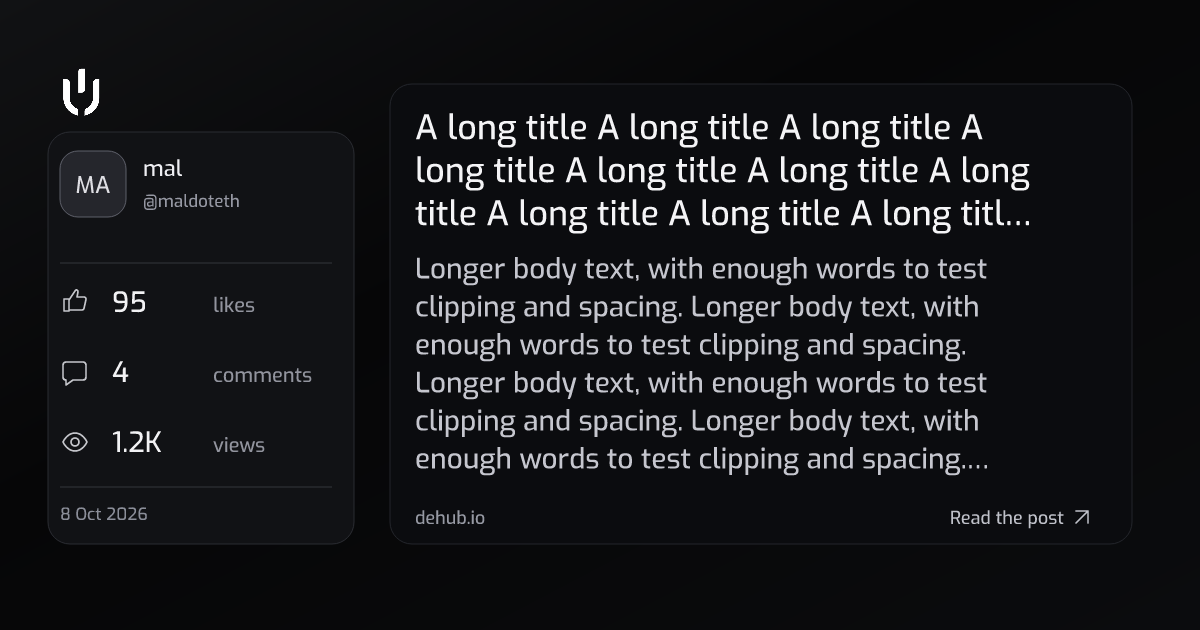
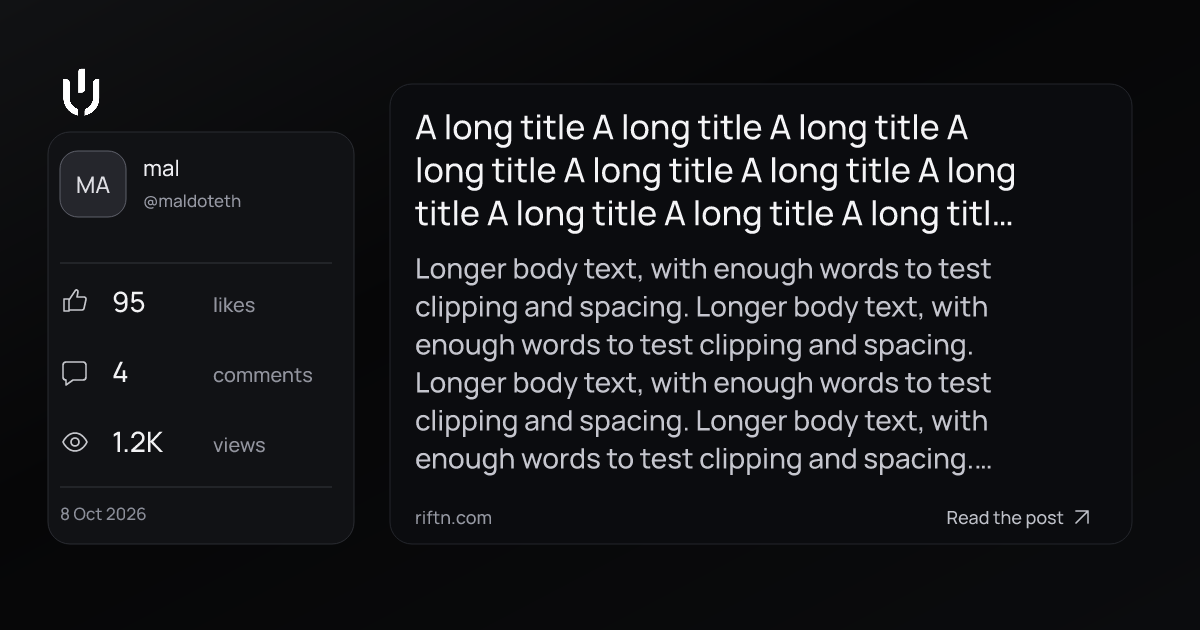
Share cards say riftn.com and show Turkish and other accented letters

diff --git a/server/post-share-card.js b/server/post-share-card.js
@@ -1,4 +1,4 @@
-export const POST_CARD_VERSION = 'v5';
+export const POST_CARD_VERSION = 'v6';
 export const POST_CARD_TTL = 300;
 const ORIGIN = 'https://riftn.com';
 const CDN = 'https://dehubcdn.ams3.cdn.digitaloceanspaces.com';
@@ -265,9 +265,9 @@ function renderMediaPanel(data, media) {
     <rect x="390" y="${caption.length ? 324 : 414}" width="742" height="${caption.length ? 220 : 130}" fill="url(#foot)" clip-path="url(#panel)"/>
     <rect x="390" y="84" width="742" height="460" rx="22" fill="none" stroke="#22242a"/>
     ${play}
-    <g font-family="Exo" font-weight="500">
+    <g font-family="Manrope" font-weight="500">
       ${textLines(caption, 415, captionY, 28, 36, '#f4f4f6')}
-      <text x="415" y="524" font-size="18" fill="#c5c6ce">dehub.io</text>
+      <text x="415" y="524" font-size="18" fill="#c5c6ce">riftn.com</text>
       <text x="1064" y="524" text-anchor="end" font-size="18" fill="#f1f1f4">${data.media.video ? 'Watch on Riftn' : 'View the post'}</text>
       <path d="M1076 523l12-12m-12 0h12v12" fill="none" stroke="#f1f1f4" stroke-width="1.5" stroke-linecap="round" stroke-linejoin="round"/>
     </g>
@@ -312,27 +312,27 @@ export function renderPostCardSvg(data, { logo, avatar = '', badges = [], media 
   <path d="M60 263H332M60 487H332" fill="none" stroke="#33353b"/>
   <image x="43" y="59" width="77" height="66" xlink:href="${logo}"/>
   <rect x="60" y="151" width="66" height="66" rx="18" fill="#25262c" stroke="#5d5f69"/>
-  ${avatar ? `<image x="60" y="151" width="66" height="66" preserveAspectRatio="xMidYMid slice" clip-path="url(#face)" xlink:href="${avatar}"/>` : `<text x="93" y="193" text-anchor="middle" fill="#dedee3" font-family="Exo" font-size="23">${escape(initials)}</text>`}
-  <g font-family="Exo" font-weight="500">
+  ${avatar ? `<image x="60" y="151" width="66" height="66" preserveAspectRatio="xMidYMid slice" clip-path="url(#face)" xlink:href="${avatar}"/>` : `<text x="93" y="193" text-anchor="middle" fill="#dedee3" font-family="Manrope" font-size="23">${escape(initials)}</text>`}
+  <g font-family="Manrope" font-weight="500">
     ${identity.svg}
     <text x="143" y="${identity.handleY}" font-size="17" fill="#9698a3">${escape(wrapPostText(data.handle ? `@${data.handle}` : '', 17, 184, 1)[0] || '')}</text>
     ${stats}
     <text x="60" y="520" font-size="17" fill="#8b8e99">${escape(dateText)}</text>
   </g>
-  ${showMedia ? renderMediaPanel(data, media) : `<g font-family="Exo" font-weight="500">
+  ${showMedia ? renderMediaPanel(data, media) : `<g font-family="Manrope" font-weight="500">
     <g clip-path="url(#copy)">
       ${textLines(title.lines, 415, title.y, title.size, title.step, '#f4f4f6')}
       ${textLines(body.lines, 415, body.y, body.size, body.step, '#c5c6ce')}
       ${renderPoll(poll)}
     </g>
-    <text x="415" y="524" font-size="18" fill="#9699a3">dehub.io</text>
+    <text x="415" y="524" font-size="18" fill="#9699a3">riftn.com</text>
     <text x="1064" y="524" text-anchor="end" font-size="18" fill="#bfc1c9">Read the post</text>
     <path d="M1076 523l12-12m-12 0h12v12" fill="none" stroke="#bfc1c9" stroke-width="1.5" stroke-linecap="round" stroke-linejoin="round"/>
   </g>`}
   </svg>`;
 }
 
-export const PROFILE_CARD_VERSION = 'v1';
+export const PROFILE_CARD_VERSION = 'v2';
 const PROFILE_HANDLE = /^[A-Za-z0-9_][A-Za-z0-9_.-]{0,63}$/;
 
 export function profileShareImageUrl(handle) {
@@ -391,12 +391,12 @@ export function renderProfileCardSvg(data, { logo, avatar = '', chrome = '' }) {
   <rect x="68" y="84" width="1064" height="460" rx="22" fill="#0b0c0f" stroke="#22242a"/>
   <image x="43" y="59" width="77" height="66" xlink:href="${logo}"/>
   <rect x="110" y="190" width="220" height="220" rx="56" fill="#25262c" stroke="#5d5f69"/>
-  ${avatar ? `<image x="110" y="190" width="220" height="220" preserveAspectRatio="xMidYMid slice" clip-path="url(#face)" xlink:href="${avatar}"/>` : `<text x="220" y="325" text-anchor="middle" fill="#dedee3" font-family="Exo" font-size="76">${escape(initials)}</text>`}
-  <g font-family="Exo" font-weight="500">
+  ${avatar ? `<image x="110" y="190" width="220" height="220" preserveAspectRatio="xMidYMid slice" clip-path="url(#face)" xlink:href="${avatar}"/>` : `<text x="220" y="325" text-anchor="middle" fill="#dedee3" font-family="Manrope" font-size="76">${escape(initials)}</text>`}
+  <g font-family="Manrope" font-weight="500">
     ${textLines(name, 380, nameY, 56, 66, '#f4f4f6')}
     <text x="380" y="${handleY}" font-size="28" fill="#9698a3">${escape(wrapPostText(`@${data.handle}`, 28, 640, 1)[0])}</text>
     ${facts ? `<text x="380" y="${handleY + 62}" font-size="26" fill="#d9dae0">${escape(facts)}</text>` : ''}
-    <text x="110" y="508" font-size="18" fill="#9699a3">dehub.io</text>
+    <text x="110" y="508" font-size="18" fill="#9699a3">riftn.com</text>
     <text x="1064" y="508" text-anchor="end" font-size="18" fill="#bfc1c9">Follow on Riftn</text>
     <path d="M1076 507l12-12m-12 0h12v12" fill="none" stroke="#bfc1c9" stroke-width="1.5" stroke-linecap="round" stroke-linejoin="round"/>
   </g>

diff --git a/src/test/structured-data.test.ts b/src/test/structured-data.test.ts
@@ -276,7 +276,7 @@ describe('entity pages', () => {
     const { res, body } = await crawl('/app/post/6127/duets');
     expect(res.status).toBe(200);
     expect(meta(body, 'og:title')).toBe('Duets of Dance by @mal | Riftn');
-    expect(meta(body, 'og:image')).toBe('https://riftn.com/_og/post/v5/6127.png');
+    expect(meta(body, 'og:image')).toBe('https://riftn.com/_og/post/v6/6127.png');
     expect(body).toContain('<link rel="canonical" href="https://riftn.com/app/post/6127/duets">');
     expect(types(body)).toContain('CollectionPage');
   });
@@ -286,7 +286,7 @@ describe('entity pages', () => {
     const { res, body } = await crawl('/app/post/6127/reactions');
     expect(res.status).toBe(200);
     expect(meta(body, 'og:title')).toBe('Reactions to Dance by @mal | Riftn');
-    expect(meta(body, 'og:image')).toBe('https://riftn.com/_og/post/v5/6127.png');
+    expect(meta(body, 'og:image')).toBe('https://riftn.com/_og/post/v6/6127.png');
     expect(body).toContain('<link rel="canonical" href="https://riftn.com/app/post/6127/reactions">');
     expect(types(body)).toContain('CollectionPage');
   });
@@ -461,8 +461,8 @@ describe('proxied pages', () => {
     const record = { tokenId: 6127, mintername: 'jesse', description: 'Clip night', postType: 'video', videoUrl: 'videos/6127.mp4', thumbnail_url: 'images/6127.jpg' };
     network({ [FN]: html(page), 'https://api.dehub.io/api/nft_info/6127': json({ result: record }) });
     let { body } = await crawl('/app/post/6127');
-    expect(meta(body, 'og:image')).toBe('https://riftn.com/_og/post/v5/6127.png');
-    expect(meta(body, 'twitter:image')).toBe('https://riftn.com/_og/post/v5/6127.png');
+    expect(meta(body, 'og:image')).toBe('https://riftn.com/_og/post/v6/6127.png');
+    expect(meta(body, 'twitter:image')).toBe('https://riftn.com/_og/post/v6/6127.png');
     expect(meta(body, 'twitter:card')).toBe('summary_large_image');
     expect(meta(body, 'og:image:width')).toBe('1200');
     expect(meta(body, 'og:image:height')).toBe('630');

diff --git a/src/pages/app/StatsPage.tsx b/src/pages/app/StatsPage.tsx
@@ -858,14 +858,14 @@ export default function StatsPage() {
     <div className="min-h-screen">
       <SEOHead
         title={_copy("copy.1340eb7a333e", { defaultValue: "Live Site Stats: Riftn Visitors and Members in Real Time" })}
-        description={_copy("copy.e1110847f32e", { defaultValue: "Live numbers for dehub.io: visitors measured at Cloudflare's edge, Riftn's own member counts, and what the platform earns and spends — revenue, costs and where the original token tax went, with every on-chain line linked to its transaction." })}
+        description={_copy("copy.e1110847f32e", { defaultValue: "Live numbers for riftn.com: visitors measured at Cloudflare's edge, Riftn's own member counts, and what the platform earns and spends — revenue, costs and where the original token tax went, with every on-chain line linked to its transaction." })}
         url="https://riftn.com/stats"
         image="https://riftn.com/og/stats.jpg"
         jsonLd={{
           '@context': 'https://schema.org',
           '@type': 'Dataset',
           name: 'Riftn live site statistics',
-          description: _copy("copy.67ae514e929e", { defaultValue: "Edge-measured visitor statistics for dehub.io alongside the platform’s own community figures — members, active users, signups and growth — published live." }),
+          description: _copy("copy.67ae514e929e", { defaultValue: "Edge-measured visitor statistics for riftn.com alongside the platform’s own community figures — members, active users, signups and growth — published live." }),
           url: 'https://riftn.com/stats',
           creator: { '@type': 'Organization', name: 'Riftn' },
           isAccessibleForFree: true,

diff --git a/server/stage-share-card.js b/server/stage-share-card.js
@@ -10,7 +10,7 @@
 import { buildStageCover, stageCoverTitleScale } from '../src/lib/stage-cover.ts';
 import { wrapPostText } from './post-share-card.js';
 
-export const STAGE_CARD_VERSION = 'v2';
+export const STAGE_CARD_VERSION = 'v3';
 const ORIGIN = 'https://riftn.com';
 
 export function stageShareImageUrl(id) {
@@ -120,6 +120,6 @@ export function renderStageCardSvg(stage, images = {}) {
   ${kv ? `<text x="${n(left)}" y="${kvY}" font-family="Consolas" font-size="${kvSize}" fill="#fff" fill-opacity=".6">${escape(wrapPostText(kv, kvSize, 56 * U, 1)[0] || '')}</text>` : ''}
 
   <rect x="${n(left)}" y="${n(H - 4.2 * U - 3.1 * U)}" width="${n(18.4 * U)}" height="${n(3.1 * U)}" rx="${n(0.5 * U)}" fill="#000" fill-opacity=".35" stroke="#fff" stroke-opacity=".3" stroke-width="1.5"/>
-  <text x="${n(left + 1.4 * U)}" y="${n(H - 4.2 * U - 1.05 * U)}" font-family="Consolas" font-size="${n(1.5 * U)}" fill="#fff" fill-opacity=".85">// dehub.io/stages</text>
+  <text x="${n(left + 1.4 * U)}" y="${n(H - 4.2 * U - 1.05 * U)}" font-family="Consolas" font-size="${n(1.5 * U)}" fill="#fff" fill-opacity=".85">// riftn.com/stages</text>
 </svg>`;
 }

diff --git a/src/components/app/profile/UsernameReserve.tsx b/src/components/app/profile/UsernameReserve.tsx
@@ -133,7 +133,7 @@ export function UsernameReserve({ username, onTaken, preview }: Props) {
       ) : null}
 
       <p className="mb-6 max-w-[340px] text-sm leading-relaxed text-zinc-400 [text-wrap:balance]">
-        {state === 'avail' && t('profile.reserve.availableBody', { defaultValue: 'dehub.io/{{name}} is free right now. Reserve it and we hold it for one minute while you sign up.', name })}
+        {state === 'avail' && t('profile.reserve.availableBody', { defaultValue: 'riftn.com/{{name}} is free right now. Reserve it and we hold it for one minute while you sign up.', name })}
         {state === 'held' && t('profile.reserve.heldBody', { defaultValue: 'Nobody else can take @{{name}} until the timer runs out. Finish sign up to keep it.', name })}
         {state === 'ended' && t('profile.reserve.endedBody', { defaultValue: 'Your minute ran out, so @{{name}} is open to everyone again. It is still free.', name })}
         {state === 'busy' && t('profile.reserve.busyBody', { defaultValue: 'Someone is signing up as @{{name}} right now. If they do not finish, it frees up when the timer ends.', name })}

diff --git a/server/post-share-image.js b/server/post-share-image.js
@@ -14,7 +14,7 @@ const bytesToUri = (bytes, type) => {
 };
 
 async function loadAssets(env) {
-  if (!assets) assets = Promise.all(['/brand-kit/font/exo-500.ttf', '/brand/mark-white.png'].map(async (path) => {
+  if (!assets) assets = Promise.all(['/brand-kit/font/manrope-500.ttf', '/brand/mark-white.png'].map(async (path) => {
     const response = await env.ASSETS.fetch(new Request(`https://riftn.com${path}`));
     if (!response.ok || response.headers.get('Content-Type')?.includes('text/html')) throw new Error('Share card asset unavailable');
     return new Uint8Array(await response.arrayBuffer());
@@ -84,7 +84,7 @@ async function brandCard(request, env, headers, reason) {
 }
 
 function renderPng(svg, font) {
-  const renderer = new Resvg(svg, { font: { fontBuffers: [font], defaultFontFamily: 'Exo' } });
+  const renderer = new Resvg(svg, { font: { fontBuffers: [font], defaultFontFamily: 'Manrope' } });
   let rendered;
   try { rendered = renderer.render(); return rendered.asPng(); }
   finally { rendered?.free(); renderer.free(); }

diff --git a/src/features/post/components/ArticleComposer.tsx b/src/features/post/components/ArticleComposer.tsx
@@ -186,7 +186,7 @@ export function ArticleComposer(props: ArticleComposerProps) {
               <div className="space-y-1 p-3">
                 <p className="article-ink line-clamp-1 text-sm font-semibold">{title.trim()}</p>
                 <p className="article-meta line-clamp-2 text-xs">{summary.trim() || t('articles.summaryPlaceholder', 'A sentence or two about your article')}</p>
-                <p className="article-meta text-[11px]">{_copy("copy.bf640b85d499", { defaultValue: "dehub.io · " })}{t('articles.minRead', { count: minutes, defaultValue: '{{count}} min read' })}</p>
+                <p className="article-meta text-[11px]">{_copy("copy.bf640b85d499", { defaultValue: "riftn.com · " })}{t('articles.minRead', { count: minutes, defaultValue: '{{count}} min read' })}</p>
               </div>
             </div>
           </section>

diff --git a/src/pages/app/ProfilePage.tsx b/src/pages/app/ProfilePage.tsx
@@ -569,7 +569,7 @@ export default function ProfilePage() {
             home title, index,follow and a self canonical. */}
         <SEOHead
           title={showReserve ? t('profile.reserve.seoTitle', { defaultValue: '@{{name}} is available on Riftn', name: displayUsername.toLowerCase() }) : `${t('notFound.title')} | Riftn`}
-          description={showReserve ? t('profile.reserve.seoDescription', { defaultValue: 'Nobody has dehub.io/{{name}} yet. Reserve it and sign up to make it yours.', name: displayUsername.toLowerCase() }) : t('profile.notFound')}
+          description={showReserve ? t('profile.reserve.seoDescription', { defaultValue: 'Nobody has riftn.com/{{name}} yet. Reserve it and sign up to make it yours.', name: displayUsername.toLowerCase() }) : t('profile.notFound')}
           noindex
           noCanonical
         />

diff --git a/src/contexts/StageContext.tsx b/src/contexts/StageContext.tsx
@@ -487,7 +487,7 @@ function describeStageFailure(err: unknown): string {
   const message = e.message || '';
 
   if (name === 'NotAllowedError' || name === 'PermissionDeniedError' || /permission denied/i.test(message)) {
-    return _translateCopy("copy.8cf2f5e1ffb4", { defaultValue: "Riftn needs microphone access to put you on air — allow it for dehub.io and try again." });
+    return _translateCopy("copy.8cf2f5e1ffb4", { defaultValue: "Riftn needs microphone access to put you on air — allow it for riftn.com and try again." });
   }
   if (name === 'NotFoundError' || name === 'NotReadableError' || name === 'OverconstrainedError') {
     return _translateCopy("copy.85494984469a", { defaultValue: "No microphone available. Check nothing else is using it and try again." });

diff --git a/src/components/app/profile/ProfileHeader.tsx b/src/components/app/profile/ProfileHeader.tsx
@@ -403,7 +403,7 @@ export function ProfileHeader({
                     trackShare('copy_link', { kind: 'profile' });
                     toast.success(_copy("copy.0877581001b8", { defaultValue: "ENS profile URL copied to clipboard" }));
                   }}
-                  title={_copy("copy.9f8fb573515e", { defaultValue: "Verified ENS name: dehub.io/{{value1}}", value1: profile.ensName })}
+                  title={_copy("copy.9f8fb573515e", { defaultValue: "Verified ENS name: riftn.com/{{value1}}", value1: profile.ensName })}
                   className="rounded-md bg-zinc-800/60 px-2 py-0.5 text-xs text-zinc-300 transition-colors hover:bg-zinc-700/50 hover:text-white"
                 >
                   {profile.ensName}

diff --git a/src/pages/docs/Dapp.tsx b/src/pages/docs/Dapp.tsx
@@ -865,7 +865,7 @@ const Dapp = () => {
               <div className="space-y-6">
                 <a href="https://riftn.com/dpay" target="_blank" rel="noopener noreferrer" className="flex items-center justify-between p-4 bg-muted rounded-lg border hover:bg-muted/80 transition-colors cursor-pointer">
                   <div>
-                    <h4 className="font-semibold text-foreground font-exo">dehub.io/dpay</h4>
+                    <h4 className="font-semibold text-foreground font-exo">riftn.com/dpay</h4>
                     <p className="text-muted-foreground font-exo">{t('dapp.dpayDesc')}</p>
                   </div>
                   <ExternalLink className="w-5 h-5 text-muted-foreground" />

diff --git a/src/components/app/settings/EnsHandleSettings.tsx b/src/components/app/settings/EnsHandleSettings.tsx
@@ -204,10 +204,10 @@ function EnsHandleSettingsInner() {
         title={t('settings.ensHandle', 'ENS name')}
         description={
           link
-            ? t('settings.ensLinkedDesc', 'You are also at dehub.io/{{name}}', { name: link.name })
+            ? t('settings.ensLinkedDesc', 'You are also at riftn.com/{{name}}', { name: link.name })
             : t(
                 'settings.ensHandleDesc',
-                'Prove you hold a .eth name to also be reachable at dehub.io/yourname.eth. Your username does not change.',
+                'Prove you hold a .eth name to also be reachable at riftn.com/yourname.eth. Your username does not change.',
               )
         }
         action={
